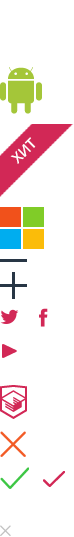
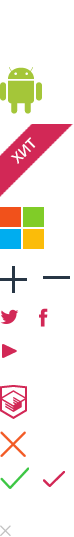
финальный вариант формы 06.10.2015

Changed region(s): [[0.0, 0.4767, 0.3784, 0.5661], [0.5946, 0.5065, 0.9459, 0.5363]]

diff --git a/form.html b/form.html
@@ -53,19 +53,19 @@
 						<form class="form form--contest" method="post" action="/echo" enctype="multipart/form-data">
 							<fieldset class="form__group form__group--light">
 								<div class="form__row">
-									<label class="form__label" for="FirstName">Имя:</label>
+									<label class="form__label form__label--required" for="FirstName">Имя:</label>
 									<div class="form__field-wrap">
 										<input type="text" class="form__field" id="FirstName" name="FirstName" placeholder="Введите ваше имя" required>
 									</div>
 								</div>
 								<div class="form__row">
-									<label class="form__label" for="LastName">Фамилия:</label>
+									<label class="form__label form__label--required" for="LastName">Фамилия:</label>
 									<div class="form__field-wrap">
 										<input type="text" class="form__field" name="LastName" id="LastName" placeholder="Укажите фамилию" required>
 									</div>
 								</div>
 								<div class="form__row">
-									<label class="form__label" for="MiddleName">Очество</label>
+									<label class="form__label form__label--required" for="MiddleName">Очество</label>
 									<div class="form__field-wrap">
 										<input type="text" class="form__field" name="MiddleName" id="MiddleName" placeholder="Ну и отчество тоже">
 									</div>
@@ -91,18 +91,18 @@
 							</fieldset>
 
 							<fieldset class="form__group form__group--light">
-								<div class="form__title">Когда вы путешествовали?</div>
+								<div class="form__title form__title--required">Когда вы путешествовали?</div>
 								<div class="form__row form__row--center">
 									<div class="form__field-wrap">
 										<input type="text" class="form__field" id="DateStartTravel" name="DateStartTravel" placeholder="1 апреля 2015" required>
 									</div>
 									<label class="form__label form__label--center" for="DateStartTravel">Дата вьезда</label>
 								</div>
-								<div class="form__row form__row--center">
-									<div class="form__field-wrap form__field-wrap--num ">
-										<a class="form__btn-icon form__btn-icon--plus" href="#"></a>
-										<input class="form__field" type="text" name="DateСounterTravel" id="DateСounterTravel">
+								<div class="form__row--num form__row--center">
+									<div class="form__field-wrap form__field-wrap--num">
 										<a class="form__btn-icon form__btn-icon--minus" href="#"></a>
+										<input class="form__field form__field--num" type="text" name="DateСounterTravel" id="DateСounterTravel">
+										<a class="form__btn-icon form__btn-icon--plus" href="#"></a>
 									</div>
 									<label class="form__label form__label--center" for="DateСounterTravel">Продолжительность</label>
 								</div>
@@ -116,39 +116,40 @@
 
 							<fieldset class="form__group form__group--dark">
 								<div class="form__row">
-									<div class="form__title">Количество попутчиков</div>
+									<div class="form__title form__title--required">Количество попутчиков</div>
 									<div class="form__field-wrap form__field-wrap--num ">
-										<a class="form_-btn-icon form__btn-icon--plus" href="#"></a>
-										<input class="form__field" type="text" name="NumcCompanions" id="NumcCompanions" required>
 										<a class="form__btn-icon form__btn-icon--minus" href="#"></a>
+										<input class="form__field form__field--num" type="text" name="NumcCompanions" id="NumcCompanions" required>
+										<a class="form__btn-icon form__btn-icon--plus" href="#"></a>
 									</div>
 								</div>
-								<div class="form__companions-list">
-									<div class="form__companions-item">
-										<div class="form__companions-col">
-											<label class="form__label" for="NameCompanions1">Имя</label>
+								<div class="form__list">
+									<div class="form__item">
+										<div class="form__col">
+											<label class="form__label form__label--required" for="NameCompanions1">Имя</label>
 											<div class="form__field-wrap">
 												<input type="text" class="form__field" id="NameCompanions1" name="NameCompanions1" placeholder="Введите ваше имя" required>
 											</div>
 										</div>
-										<div class="form__companions-col">
+										<div class="form__col">
 											<label class="form__label" for="NickCompanions1">Прозвище:</label>
 											<div class="form__field-wrap">
 												<input type="text" class="form__field" id="NickCompanions1" name="NicknameCompanions1" placeholder="Ну как же без него">
 											</div>
 										</div>
 									</div>
-									<div class="companions-item">
-										<div class="form__companions-col">
-											<label class="form__label" for="NameCompanions2">Имя</label>
+
+									<div class="form__item">
+										<div class="form__col">
+											<label class="form__label form__label--required" for="NameCompanions1">Имя</label>
 											<div class="form__field-wrap">
-												<input type="text" class="form__field" id="NameCompanions2" name="NameCompanions2" placeholder="Введите ваше имя" required>
+												<input type="text" class="form__field" id="NameCompanions1" name="NameCompanions1" placeholder="Введите ваше имя" required>
 											</div>
 										</div>
-										<div class="form__companions-col">
-											<label class="form__label" for="NickCompanions2">Прозвище:</label>
+										<div class="form__col">
+											<label class="form__label" for="NickCompanions1">Прозвище:</label>
 											<div class="form__field-wrap">
-												<input type="text" class="form__field" id="NickCompanions2" name="NicknameCompanions2" placeholder="Ну как же без него">
+												<input type="text" class="form__field" id="NickCompanions1" name="NicknameCompanions1" placeholder="Ну как же без него">
 											</div>
 										</div>
 									</div>
@@ -186,7 +187,7 @@
 							</fieldset>
 
 							<fieldset class="form__group form__group--dark">
-								<div class="form__title">Ваши фотографии из поездки</div>
+								<div class="form__title form__title--required">Ваши фотографии из поездки</div>
 								<a href="#" class="form__ctrl-add">
 									<label class="btn btn--lighten" for="UploadPicture">
 										Загрузить фото

diff --git a/sass/_form.scss b/sass/_form.scss
@@ -1,3 +1,8 @@
+
+
+/*=============================================
+=  страница заполнение формы для участия в конкурсе  =
+=============================================*/
 .contest {
 	padding-top: 45px;
 
@@ -13,9 +18,12 @@
 	margin-top: -15px;
 }
 
+/*------- форма для запорлнения информации для участия в конкурсе -------*/
 .form {
 	&__row {
+		width: 100%;
 		margin-bottom: 5px;}
+
 
 	&__group {
 		margin: 0;
@@ -133,6 +141,7 @@
 	&__field {
 		/*поля формы*/
 		display: inline-block;
+		vertical-align: top;
 		width: 100%;
 		padding: 15px 20px;
 		font-family: $font-family-text;
@@ -143,6 +152,7 @@
 		color: $black;
 		border: 2px solid $gray;
 		border-radius: 3px;
+		outline: none;
 
 		&::-moz-placeholder{
 			/* Цвет подсказывающего текста для Firefox*/
@@ -155,9 +165,39 @@
 		}
 	}
 
-	&__radio-list {
-		padding-bottom: 10px;
+	&__field-wrap--num {
+		/*поля формы с кнопками плюса и минуса*/
+		width: 100%;
+		font-size: 0;
 	}
+
+	&__field--num {
+		width: 160px;
+		border-radius: 0;
+		border-right: none;
+		border-left: none;
+	}
+
+	&__btn-icon {
+		display: inline-block;
+		width: 60px;
+		height: 62px;
+		color: $black;
+		border: 2px solid $gray;
+
+	}
+
+	&__btn-icon--plus {
+		background: $white url("../img/sprit.png") no-repeat 15px -251px;
+		border-radius: 0 3px 3px 0;
+	}
+
+	&__btn-icon--minus {
+		background: $white url("../img/sprit.png") no-repeat -28px -249px;
+		border-radius: 3px 0 0 3px;
+	}
+
+	&__radio-list {padding-bottom: 10px;}
 
 	&__radio-item {
 		margin-bottom: 30px;
@@ -176,13 +216,12 @@
 	}
 }
 
-
 input[type="checkbox"],
 input[type="radio"] {
 		display: none;
 	}
 
-input[type="radio"]:checked + .form__label--radio:after {
+input[type="radio"]:checked  .form__label--radio:after {
 	content: "";
 	display: block;
 	width: 14px;
@@ -196,7 +235,7 @@ input[type="radio"]:checked + .form__label--radio:after {
 }
 
 
-input[type="checkbox"]:checked + .form__label--checkbox:after {
+input[type="checkbox"]:checked  .form__label--checkbox:after {
 	content: "";
 	display: block;
 	width: 38px;
@@ -214,6 +253,75 @@ input[type="file"] {
 	top: 0;
 }
 
+/*блок с оинформацияе о попутчиках*/
+.form {
+	&__list {
+			width: 100%;
+			margin-top: 50px;
+			padding-bottom: 10px;
+			border-top: 2px solid $gray;
+			counter-reset: flag;
+		}
+
+	&__item {
+		width: 100%;
+		padding-top: 20px;
+		padding-left: 63px;
+		position: relative;
+
+
+	&:before {
+		/*нумерация пунктов списка form_list*/
+		content: counter(flag);
+ 		counter-increment: flag;
+		display: block;
+		width: 65px;
+		padding: 20px 0;
+		text-align: center;
+		text-transform: uppercase;
+		font-family: $font-family-text;
+		line-height: 1;
+		font-size: $font-size-larger;
+		font-weight: 700;
+		font-style: normal;
+		color: $black;
+		border: 2px solid $gray;
+		border-radius: 3px;
+		position: absolute;
+		top: 69px;
+		left: 0;
+	}
+
+	&:after {
+		/*заголовок нумерации полей списка*/
+		content: "№";
+		font-size: $font-size-base;
+		font-family: $font-family-text;
+		line-height: 2.1;
+		font-style: normal;
+		font-weight: 400;
+		color: $red-dark;
+		text-transform: uppercase;
+		position: absolute;
+		top: 34px;
+		left: 0;
+		width: 65px;
+		text-align: center;
+		display: block;
+	}
+
+}
+
+	&__col {
+		display: inline-block;
+		vertical-align: top;
+		width: 100%;
+		margin-bottom: 7px;
+		text-align: left;
+	}
+}
+
+/*группа формы- добавление загрузить файлы*/
 .form__ctrl-add {
 	display: block;
 	margin-bottom: 35px;
@@ -230,7 +338,7 @@ input[type="file"] {
 	}
 	&__item {
 		display: inline-block;
-		margin-right: 40px;
+		margin-right: 38px;
 		padding-top: 20px;
 		position: relative;
 
@@ -290,5 +398,5 @@ input[type="file"] {
 	}
 }
 
-
-
+/*-------  End:/ форма для запорлнения информации для участия в конкурсе -------*/
+/*===== End:/ страница заполнение формы для участия в конкурсе  ======*/
